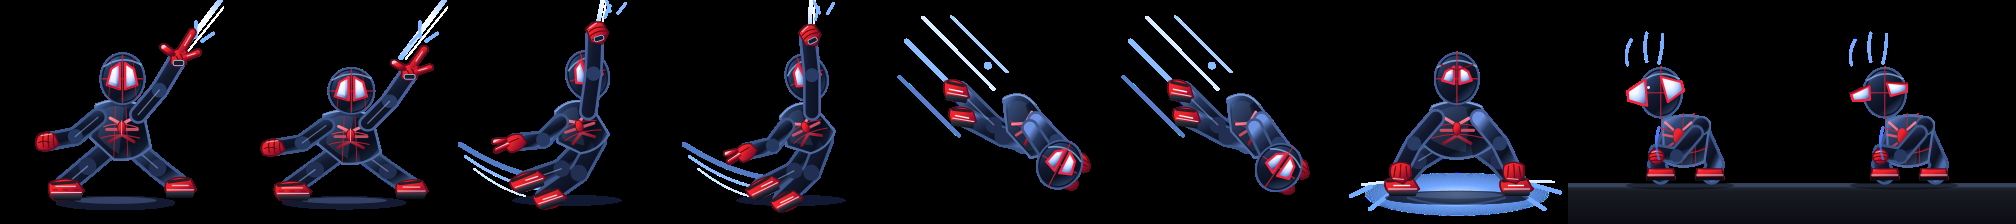
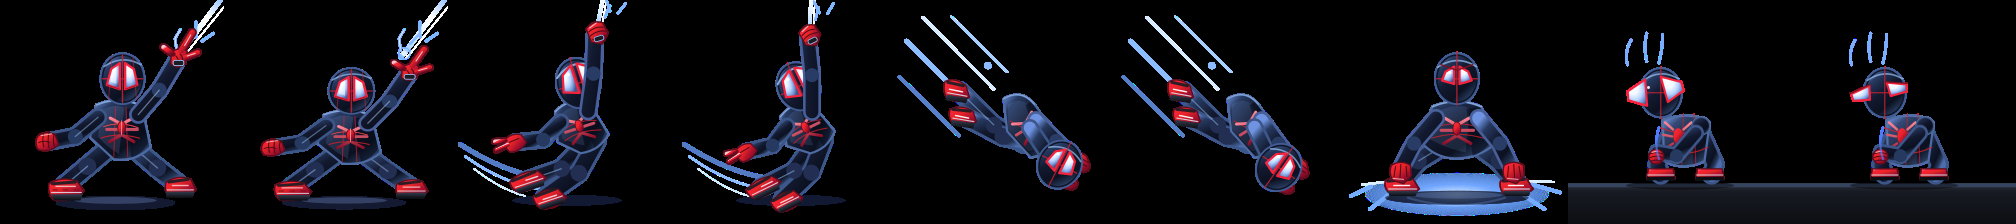
feat(spidey): swing face rescue, venom discharge, honest docs
- frame1: lenses enlarged ~25% with stronger brow rim and twin
  glints, head shifted clear of the leading arm so the face
  anchor reads at 44px bar height (verified with bar-size renders)
- frame0: venom crackle jag with white core plus muzzle glow ring
  at the web-shooter, routed clear of the trigger finger
- README: 9-frame athletic cycle, full beat table with eye beats
- Regenerated frame5/frame6 from updated heroes, rebuilt preview

Changed region(s): [[0.25, 0.2188, 0.3125, 0.4688], [0.375, 0.25, 0.4375, 0.5], [0.1875, 0.2188, 0.2188, 0.25]]

diff --git a/README.md b/README.md
@@ -1,8 +1,8 @@
 # Spidey Swing 🕷
 
 Miles Morales web-swinging through your Omarchy top bar — a hand-drawn
-5-frame SVG swing cycle in a chibi style. Vector art stays sharp at any
-DPI, including 4K. Click for a somersault.
+9-frame SVG swing cycle in an athletic animated style. Vector art stays
+sharp at any DPI, including 4K. Click for a somersault.
 
 ![Spidey Swing cycle](preview.png)
 
@@ -69,8 +69,9 @@ itself — no services, no sudo, no network access.
 
 ## Controls
 
-- **Idle**: five staged keys (shoot → swing → dive → land → perch) with
-  cinematic holds, drifting slowly across its slot and auto-mirroring at
+- **Idle**: nine staged keys (shoot → swing → dive → land → perch,
+  plus body in-betweens and a perch-blink eye beat) with cinematic
+  holds, drifting slowly across its slot and auto-mirroring at
   each end so Miles always faces travel direction.
 - **Click**: 360° somersault (600ms). Clicks work through the bar host's
   registered click-target contract (`triggerPress`), not a raw `MouseArea`.
